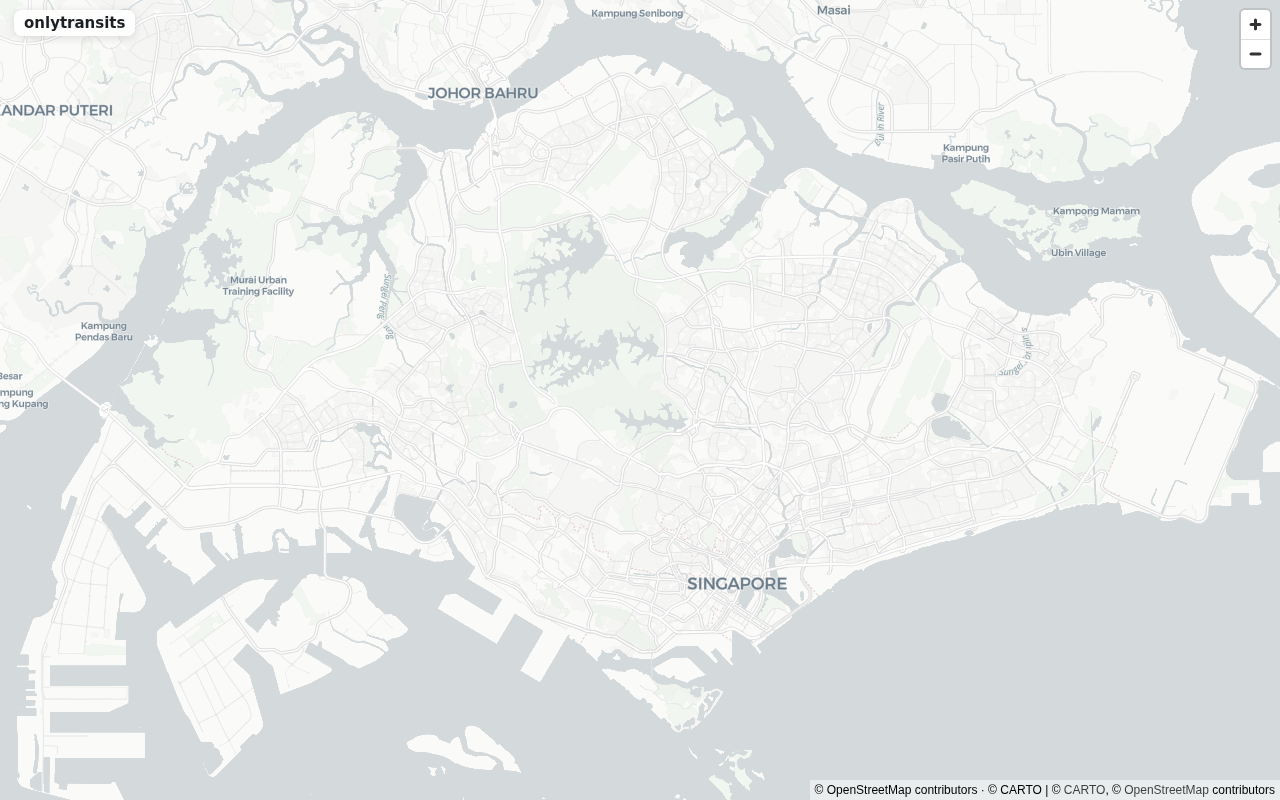
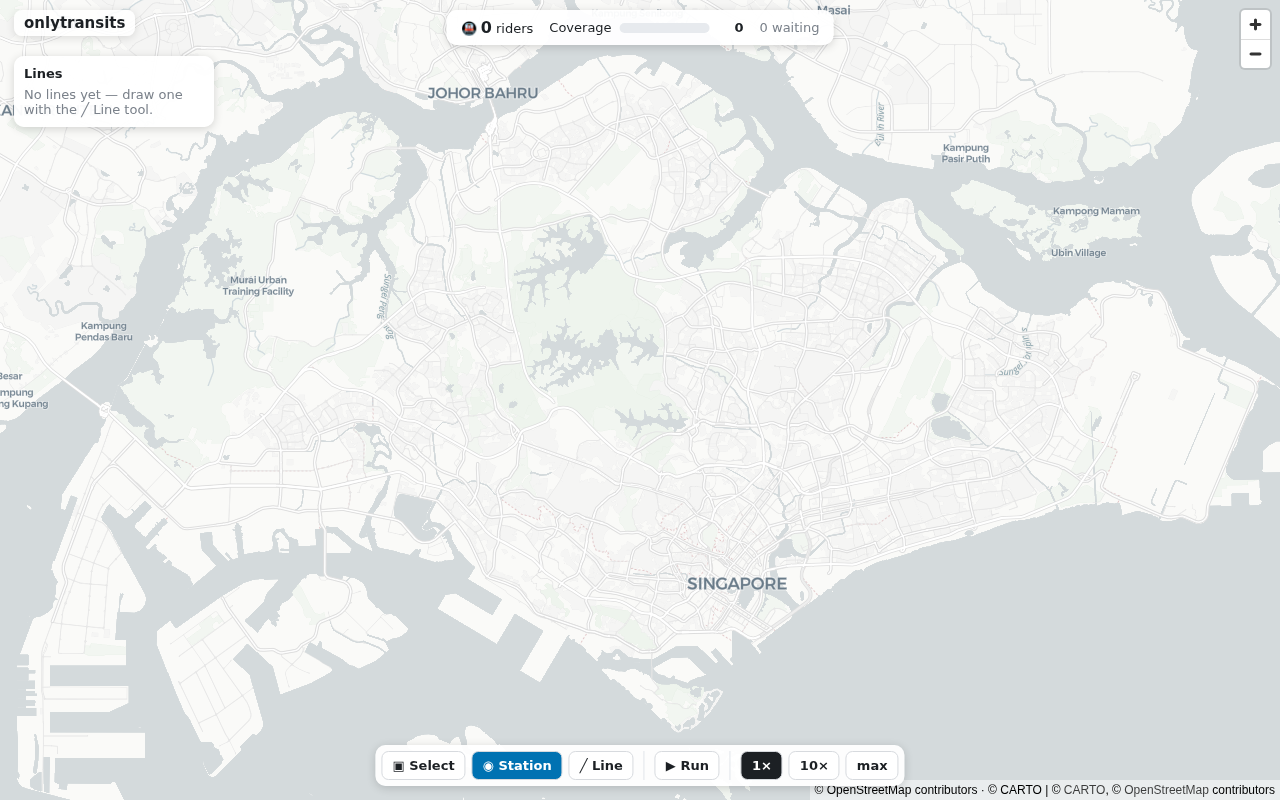
feat(app): stats bar + coverage gauge + waiting-pax halos + flagship e2e (T17, T18)
- ui/statsbar.ts: top HUD with the headline ridership counter + 0-100 coverage gauge +
  waiting total, fed by a ~3 Hz stats throttle (never per frame).
- render/game: amber waiting-pax halos that grow with each station queue (from the snapshot).
- testhooks: setSpeed (lets e2e crank sim speed). main wires the 3 Hz stats throttle.
- e2e/slice.spec.ts (CP8): full 5-step loop vs the PRODUCTION preview bundle, asserting a
  vehicle moved AND ridership>0 AND coverage>0 AND the DOM counter is non-zero; camera-
  independent via the geo.ts-routed hook. Screenshot docs/progress/cp8-slice-running.png.
- ALL THREE TIERS GREEN: cargo 14, vitest 10, playwright 7. M4+M5 complete; slice playable.

Changed region(s): [[0.2812, 0.9062, 0.7188, 1.0], [0.3438, 0.0, 0.6562, 0.0625], [0.0, 0.0625, 0.1562, 0.1562]]

diff --git a/packages/app/src/ui/statsbar.ts b/packages/app/src/ui/statsbar.ts
@@ -1,0 +1,60 @@
+// Top-centre HUD: the headline Ridership counter + a 0–100 Coverage/Satisfaction gauge.
+// Fed by the ~3 Hz stats throttle (never per frame). One number + one gauge, details on
+// demand elsewhere (AGENTS IA).
+import type { Stats } from "../types";
+
+export interface StatsBar {
+  update(s: Stats): void;
+}
+
+export function mountStatsBar(host: HTMLElement): StatsBar {
+  const bar = document.createElement("div");
+  bar.id = "stats-bar";
+  bar.dataset.testid = "stats-bar";
+  bar.style.cssText =
+    "position:fixed;top:10px;left:50%;transform:translateX(-50%);display:flex;align-items:center;" +
+    "gap:16px;padding:8px 14px;background:rgba(255,255,255,.95);border-radius:10px;" +
+    "box-shadow:var(--ot-shadow);z-index:9;font:13px system-ui,sans-serif;color:#1c2024";
+
+  bar.innerHTML =
+    `<div>🚇 <b data-testid="ridership" style="font-size:16px">0</b> riders</div>` +
+    `<div style="display:flex;align-items:center;gap:8px">Coverage` +
+    `<div style="position:relative;width:90px;height:10px;background:#e7eaee;border-radius:6px;overflow:hidden">` +
+    `<div data-testid="coverage-bar" style="position:absolute;inset:0 100% 0 0;background:var(--ot-gauge-good)"></div>` +
+    `</div><b data-testid="coverage" style="width:26px;text-align:right">0</b></div>` +
+    `<div style="color:#7a818a"><span data-testid="waiting">0</span> waiting</div>`;
+
+  host.appendChild(bar);
+
+  const ridership = bar.querySelector<HTMLElement>('[data-testid="ridership"]')!;
+  const coverage = bar.querySelector<HTMLElement>('[data-testid="coverage"]')!;
+  const coverageBar = bar.querySelector<HTMLElement>('[data-testid="coverage-bar"]')!;
+  const waiting = bar.querySelector<HTMLElement>('[data-testid="waiting"]')!;
+
+  let lastRidership = -1;
+  let lastCoverage = -1;
+  let lastWaiting = -1;
+
+  return {
+    update(s: Stats): void {
+      const r = Math.round(s.ridershipTotal);
+      if (r !== lastRidership) {
+        ridership.textContent = String(r);
+        lastRidership = r;
+      }
+      const c = Math.round(s.coverageScore);
+      if (c !== lastCoverage) {
+        coverage.textContent = String(c);
+        // Bar fills left→right; hue shifts good→bad as coverage drops.
+        coverageBar.style.right = `${100 - c}%`;
+        coverageBar.style.background = c >= 60 ? "var(--ot-gauge-good)" : c >= 30 ? "#e69f00" : "var(--ot-gauge-bad)";
+        lastCoverage = c;
+      }
+      const w = Math.round(s.waitingTotal);
+      if (w !== lastWaiting) {
+        waiting.textContent = String(w);
+        lastWaiting = w;
+      }
+    },
+  };
+}

diff --git a/packages/app/e2e/slice.spec.ts b/packages/app/e2e/slice.spec.ts
@@ -1,0 +1,58 @@
+import { test, expect } from "@playwright/test";
+
+// CP8 — the flagship end-to-end slice against the production preview bundle. Drives the full
+// 5-step loop and asserts concrete behavioural facts: a vehicle moved AND ridership > 0 AND
+// the coverage gauge changed. Camera-independent (fixed viewport + __ot_test placement hook
+// through coords/geo.ts). Never a load-only green.
+test("full vertical slice: place → draw → assign → run → ridership + coverage", async ({ page }) => {
+  await page.goto("/");
+  await page.waitForFunction(() => window.__MAP_READY === true, undefined, { timeout: 30_000 });
+
+  // 1–3) place stations, draw a line, assign a trainset (auto headway).
+  await page.evaluate(() => {
+    const t = window.__ot_test!;
+    const ids = [
+      t.placeStationLngLat(103.84, 1.265),
+      t.placeStationLngLat(103.855, 1.29),
+      t.placeStationLngLat(103.85, 1.32),
+      t.placeStationLngLat(103.83, 1.355),
+      t.placeStationLngLat(103.845, 1.39),
+    ];
+    t.drawLine(ids);
+    t.assignTrainset(0, 4);
+  });
+
+  // 4) run the sim at high speed so ridership develops quickly (catchment capture runs once
+  //    Running, so coverage is asserted AFTER this — initial build-mode coverage is 0).
+  await page.evaluate(() => {
+    window.__ot_test!.setRunning(true);
+    window.__ot_test!.setSpeed(100);
+  });
+
+  const pos0 = await page.evaluate(() => Array.from(window.__ot!.bridge.vehiclePositions()));
+  // a vehicle moves...
+  await page.waitForFunction(
+    (prev) => {
+      const cur = Array.from(window.__ot!.bridge.vehiclePositions());
+      return cur.some((v, i) => Math.abs(v - (prev as number[])[i]) > 1);
+    },
+    pos0,
+    { timeout: 10_000 },
+  );
+  // ...and ridership develops.
+  await page.waitForFunction(
+    () => (window.__ot_test!.stats() as { ridershipTotal: number }).ridershipTotal > 0,
+    undefined,
+    { timeout: 15_000 },
+  );
+
+  // 5) assert the concrete facts.
+  const stats = await page.evaluate(() => window.__ot_test!.stats() as { ridershipTotal: number; coverageScore: number });
+  expect(stats.ridershipTotal).toBeGreaterThan(0);
+  expect(stats.coverageScore).toBeGreaterThan(0);
+
+  // DOM reflects ridership (handle BigInt-safe number rendering).
+  await expect(page.locator('[data-testid="ridership"]')).not.toHaveText("0");
+
+  await page.screenshot({ path: "../../docs/progress/cp8-slice-running.png" });
+});

diff --git a/packages/app/src/game.ts b/packages/app/src/game.ts
@@ -7,8 +7,24 @@ import type { Layer } from "@deck.gl/core";
 import { CATCHMENT_M, LINE_PALETTE, SNAP_PX } from "./config";
 import { lngLatToMm, metersToLngLat, mmToLngLat } from "./coords/geo";
 import { cmd } from "./commands/codec";
-import { colorToRgb, topoLayers, vehicleLayer, type RenderView, type VehicleDot } from "./render";
+import { colorToRgb, topoLayers, vehicleLayer, type RenderView, type VehicleDot, type WaitingDot } from "./render";
 import type { SimBridge } from "./sim/SimBridge";
+import type { Stats } from "./types";
+
+const EMPTY_STATS: Stats = {
+  simClockMs: 0,
+  running: false,
+  stationCount: 0,
+  lineCount: 0,
+  vehicleCount: 0,
+  ridershipTotal: 0,
+  waitingTotal: 0,
+  leftBehind: 0,
+  avgLoadFactor: 0,
+  coverageScore: 0,
+  perStation: [],
+  perLine: [],
+};
 
 export type Mode = "build" | "run";
 export type Tool = "select" | "station" | "line";
@@ -30,6 +46,9 @@ export class Game {
   /** Cached topology layers (stable identity across frames; rebuilt only on refresh). */
   private below: Layer[] = [];
   private above: Layer[] = [];
+
+  /** Latest stats snapshot (refreshed on the ~3 Hz throttle); drives waiting-pax halos. */
+  lastStats: Stats = EMPTY_STATS;
 
   constructor(
     readonly bridge: SimBridge,
@@ -216,7 +235,25 @@ export class Game {
     });
     if (this.cursor && blueprint.length >= 1) blueprint.push(this.cursor);
 
-    return { stations, lines, catchments, blueprint, vehicles: [] };
+    // Waiting-passenger halos from the latest stats snapshot (positioned at stations).
+    const waiting: WaitingDot[] = [];
+    for (const ps of this.lastStats.perStation) {
+      if (ps.waiting > 0) {
+        const s = stationsV[ps.stationId];
+        if (s) {
+          const [lng, lat] = mmToLngLat([s.xMm, s.yMm]);
+          waiting.push({ lng, lat, count: ps.waiting });
+        }
+      }
+    }
+
+    return { stations, lines, catchments, blueprint, vehicles: [], waiting };
+  }
+
+  /** Push a fresh stats snapshot (called on the ~3 Hz UI throttle) and re-render halos. */
+  setStats(s: Stats): void {
+    this.lastStats = s;
+    this.refresh();
   }
 
   /** Rebuild cached topology layers from authoritative sim views; recompose with current

diff --git a/packages/app/src/render.ts b/packages/app/src/render.ts
@@ -28,6 +28,11 @@ export interface VehicleDot {
   lat: number;
   color: Rgb;
 }
+export interface WaitingDot {
+  lng: number;
+  lat: number;
+  count: number;
+}
 
 export interface RenderView {
   stations: StationDot[];
@@ -35,6 +40,7 @@ export interface RenderView {
   catchments: CatchmentCircle[];
   blueprint: [number, number][]; // in-progress line being drawn (T11)
   vehicles: VehicleDot[]; // moving trains (T15)
+  waiting: WaitingDot[]; // accumulating waiting-passenger halos (T17)
 }
 
 export function colorToRgb(u: number): Rgb {
@@ -102,6 +108,22 @@ export function topoLayers(view: RenderView): { below: Layer[]; above: Layer[] }
       updateTriggers: {
         getFillColor: view.stations.map((s) => s.selected).join(","),
         getRadius: view.stations.map((s) => s.selected).join(","),
+      },
+    }),
+    // Waiting-passenger halo: an amber ring that grows with the queue (top, so a starved
+    // station is always visible). Stroked-only so it doesn't occlude the station dot.
+    new ScatterplotLayer({
+      id: "waiting",
+      data: view.waiting,
+      getPosition: (d: WaitingDot) => [d.lng, d.lat],
+      getRadius: (d: WaitingDot) => 8 + Math.min(16, Math.sqrt(d.count) * 2.5),
+      radiusUnits: "pixels",
+      stroked: true,
+      filled: false,
+      getLineColor: [230, 159, 0, 220],
+      lineWidthMinPixels: 2,
+      updateTriggers: {
+        getRadius: view.waiting.map((w) => w.count).join(","),
       },
     }),
   ];

diff --git a/packages/app/src/main.ts b/packages/app/src/main.ts
@@ -11,6 +11,7 @@ import { GameLoop } from "./sim/GameLoop";
 import { attachPointer } from "./tools/pointer";
 import { mountToolbar } from "./ui/toolbar";
 import { mountPanels } from "./ui/panels";
+import { mountStatsBar } from "./ui/statsbar";
 import { installTestHooks } from "./testhooks";
 
 function mountTitle(): void {
@@ -36,16 +37,24 @@ async function boot(): Promise<void> {
   const game = new Game(bridge, map, overlay);
   const loop = new GameLoop(game);
   attachPointer(game);
-  installTestHooks(game);
+  installTestHooks(game, loop);
 
   const ui = document.getElementById("ui")!;
   mountToolbar(ui, game, loop);
   mountPanels(ui, game);
+  const statsBar = mountStatsBar(ui);
 
   // Initial render once the map is ready (deck syncs to the camera), then run the rAF loop.
   map.once("load", () => game.refresh());
   game.refresh();
   loop.start();
+
+  // Stats DOM + waiting-pax halos refresh on a separate ~3 Hz throttle (never per frame).
+  setInterval(() => {
+    const s = bridge.stats();
+    statsBar.update(s);
+    game.setStats(s);
+  }, 333);
 
   window.__ot = { map, bridge, city, overlay, game };
   window.__APP_READY = true;

diff --git a/packages/app/src/testhooks.ts b/packages/app/src/testhooks.ts
@@ -2,14 +2,16 @@
 // these instead of raw pixel clicks, and placement routes through Game -> coords/geo.ts so
 // the test exercises the production coordinate boundary, not a second one.
 import type { Game } from "./game";
+import type { GameLoop } from "./sim/GameLoop";
 
-export function installTestHooks(game: Game): void {
+export function installTestHooks(game: Game, loop: GameLoop): void {
   window.__ot_test = {
     placeStationLngLat: (lng, lat) => game.placeStation(lng, lat),
     drawLine: (ids) => game.drawLineByIds(ids),
     assignTrainset: (line, count) => game.assignTrainset(line, count),
     setHeadwayMs: (line, ms) => game.setHeadwayMs(line, ms),
     setRunning: (running) => game.setMode(running ? "run" : "build"),
+    setSpeed: (mult) => loop.setSpeed(mult),
     stats: () => game.bridge.stats(),
   };
 }

diff --git a/packages/app/src/global.d.ts b/packages/app/src/global.d.ts
@@ -23,6 +23,7 @@ declare global {
       assignTrainset(line: number, count: number): void;
       setHeadwayMs(line: number, ms: number): void;
       setRunning(running: boolean): void;
+      setSpeed(mult: number): void;
       stats(): unknown;
     };
   }
